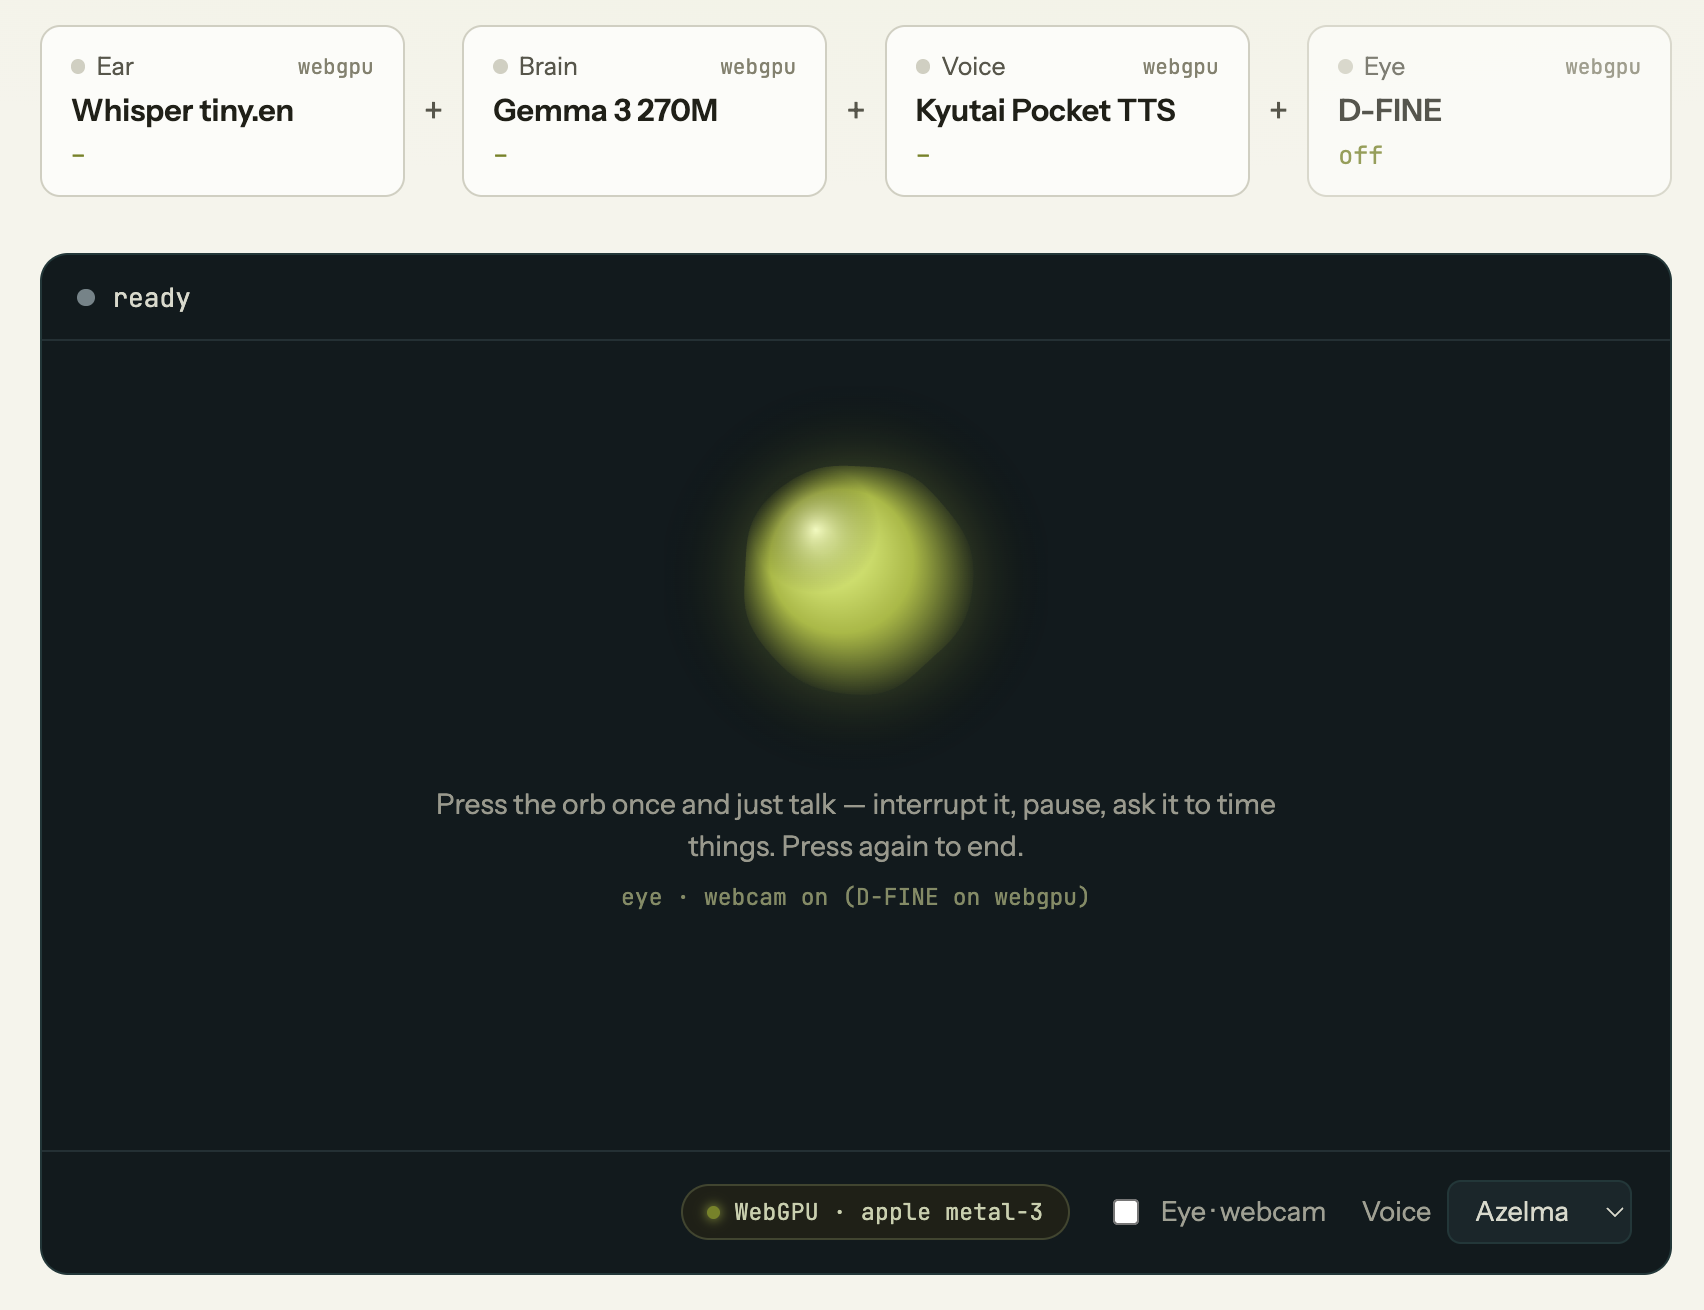
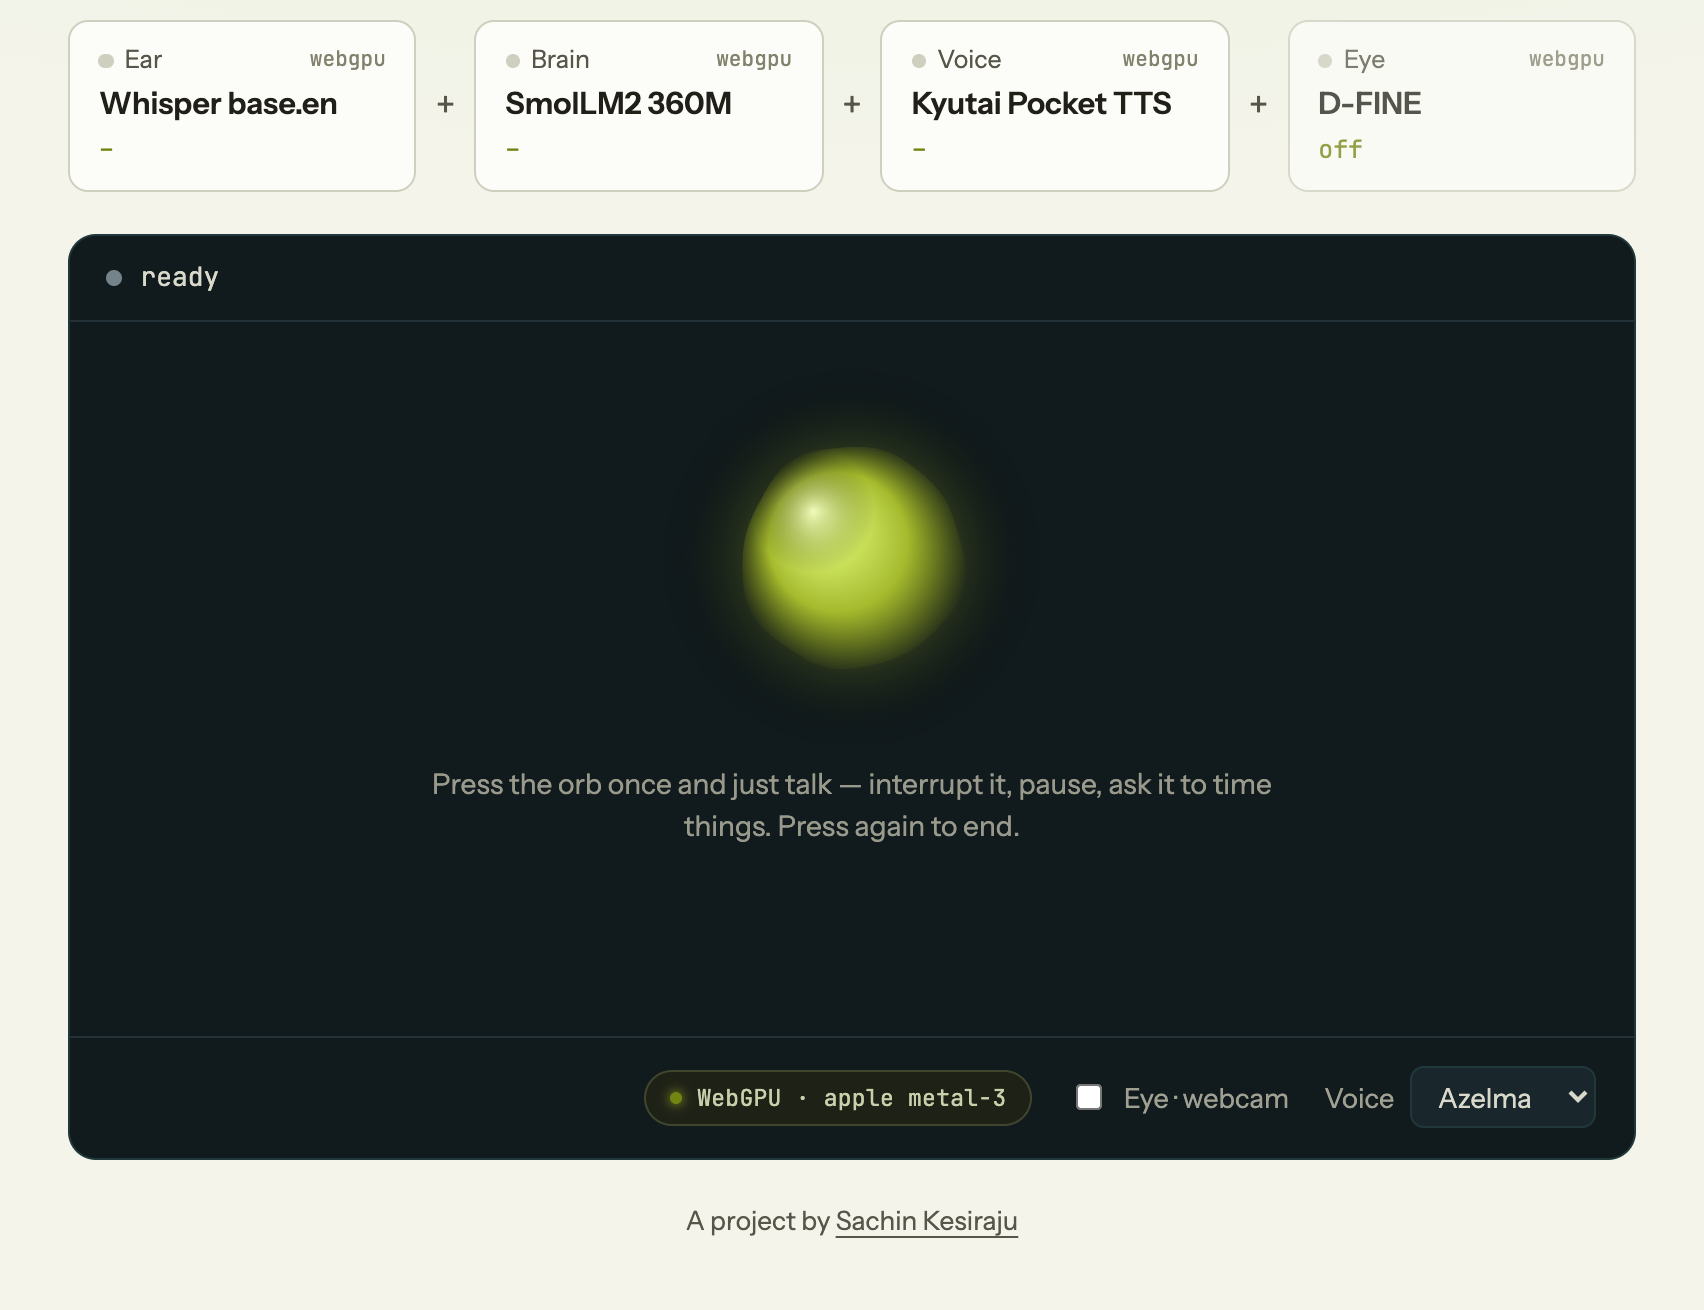
docs: refresh README for the realtime cycles 19-24 ships (#27)
* docs: refresh README for cycles 19-24 (VAD turn signal, continuation-merge, backchannels removed, prosody-safe chunking)

* docs: add 'Hard-won details' — the non-obvious behaviors fixed beyond a default implementation

* docs: refresh README screenshot (base.en + SmolLM2 rail; was tiny.en + Gemma)

* docs: 'ported', not 'hand-ported'

* docs: readability pass on the README (split run-ons, drop stale number, dedupe prosody note, plain-English download note)

* docs: no em dashes in the README

* docs: drop the hard-won details intro line

* docs: keep only the essential hard-won details

* docs: link the models in the pipeline table

* docs: condense the Run it section

* docs: tighten the how-it-works table

diff --git a/src/asr/vad.ts b/src/asr/vad.ts
@@ -1,4 +1,4 @@
-// Silero VAD v5, hand-ported to pure TypeScript. ~200k parameters and ~750k
+// Silero VAD v5, ported to pure TypeScript. ~200k parameters and ~750k
 // MACs per 32 ms frame, so it runs on plain CPU JS — no GPU and no
 // onnxruntime dependency. The LSTM cell (the op @jax-js/onnx lacks) is two
 // matmuls and four gates, written out below.

diff --git a/README.md b/README.md
@@ -3,24 +3,26 @@
 A real-time, full-duplex voice assistant that runs **entirely in your browser**
 on WebGPU, built with [jax-js](https://github.com/ekzhang/jax-js).
 
-Every stage — speech → ASR → LLM → TTS → speech, plus optional vision — runs
+Every stage (speech → ASR → LLM → TTS → speech, plus optional vision) runs
 locally in the tab; nothing is sent to a server.
 
-<img src="docs/assets/orb.png" alt="jax-realtime — the idle orb, ready to talk" width="75%" />
+<img src="docs/assets/orb.png" alt="jax-realtime: the idle orb, ready to talk" width="75%" />
 
 It's inspired by the Thinking Machines
 [interaction model](https://thinkingmachines.ai/blog/interaction-models/) and
-[GPT-Live](https://openai.com/index/introducing-gpt-live/): the goal is a
-conversation that *feels* live — you can interrupt it mid-sentence, pause to
-think, and it backchannels while you talk — reproduced as a small-model cascade
-that fits in a browser.
+[GPT-Live](https://openai.com/index/introducing-gpt-live/), rebuilt as a
+small-model cascade that fits in a browser tab. The goal is a conversation
+that *feels* live: you can interrupt it mid-sentence, pause mid-thought
+without losing your turn, and it keeps searching in the background while you
+talk.
 
 | Stage | Model | Runs on |
 | --- | --- | --- |
-| Ear (ASR) | Whisper base.en (int8, dequantized to fp16) | WebGPU via jax-js |
-| Brain (LLM) | SmolLM2-360M-Instruct (fp16) | WebGPU via jax-js |
-| Voice (TTS) | Kyutai Pocket TTS + Mimi codec (fp16) | WebGPU via jax-js |
-| Eye (vision) | D-FINE small (COCO-80) | WebGPU via `@jax-js/onnx` |
+| Ear (ASR) | [Whisper base.en](https://huggingface.co/openai/whisper-base.en) (int8, dequantized to fp16) | WebGPU via jax-js |
+| Turn-taking (VAD) | [Silero VAD v5](https://github.com/snakers4/silero-vad), ported to TypeScript | CPU (~2 ms / 32 ms frame) |
+| Brain (LLM) | [SmolLM2-360M-Instruct](https://huggingface.co/HuggingFaceTB/SmolLM2-360M-Instruct) (fp16) | WebGPU via jax-js |
+| Voice (TTS) | [Kyutai Pocket TTS](https://huggingface.co/kyutai/pocket-tts-without-voice-cloning) + [Mimi](https://github.com/kyutai-labs/moshi) codec (fp16) | WebGPU via jax-js |
+| Eye (vision) | [D-FINE small](https://huggingface.co/bukuroo/D-FINE-ONNX) (COCO-80) | WebGPU via `@jax-js/onnx` |
 
 Everything shares the single WebGPU device. The streaming ASR lane is paused
 while the assistant speaks so it doesn't contend with TTS for the GPU; barge-in
@@ -29,18 +31,22 @@ assistant stops.
 
 ## Interaction
 
-- **Full-duplex micro-turns** — a ~150 ms tick loop drives a deterministic,
-  priority-ordered policy: adaptive **barge-in** (talk over the assistant and
-  its audio cuts in ~300 ms; the threshold auto-calibrates to the echo floor of
-  each reply), mid-utterance **backchannels**, adaptive **endpointing**, and
-  time-awareness timers. A watchdog force-recovers the session if a reply ever
-  stalls, so it can't wedge.
-- **Phantom-turn guard** — near-silence and ambient swells are rejected from the
-  captured PCM (voiced-duration + peak, over an adaptive noise floor) before
-  they reach Whisper, and a repetition-degeneracy gate drops decoder loops — so
-  the assistant doesn't answer "thank you"s you never said. Snappy one-word
-  replies ("what?", "no") still get through.
-- **Eye (vision)** — enabled by default for webcam context, with a pre-load
+- **Full-duplex micro-turns**: a ~150 ms tick loop drives a deterministic,
+  priority-ordered policy: adaptive **barge-in** (talk over the assistant,
+  including its tool narrations, and the audio cuts in ~300 ms; the threshold
+  auto-calibrates to the echo floor of each reply), adaptive **endpointing**,
+  and time-awareness timers. A watchdog force-recovers the session if a reply
+  ever stalls, so it can't wedge.
+- **Continuation-merge**: if the endpoint fires on a mid-thought pause and you
+  resume speaking before the reply's first audio, the unheard reply is aborted
+  and both halves are answered as one turn ("append, don't restart").
+- **Learned turn signal**: a pure-TypeScript port of Silero VAD v5 scores
+  P(speech) every 32 ms on the CPU and drives speech onset, silence tracking,
+  and the phantom-turn guard: keyboard noise and ambient swells never even
+  latch an utterance, near-silence never reaches Whisper (so no hallucinated
+  "thank you"s), and quiet speech still passes. A repetition-degeneracy gate
+  drops decoder loops on top.
+- **Eye (vision)**: enabled by default for webcam context, with a pre-load
   toggle to skip its 42 MB model, camera access, and GPU residency. D-FINE
   runs low-priority object detection (it yields the GPU to audio), smooths the
   person count, and answers
@@ -48,46 +54,73 @@ assistant stops.
   directly from the measurements. Proactive interjections (stepped away,
   phone spotted, slouching) are best-effort rule heuristics. The webcam shows
   as a corner PiP with detection boxes.
-- **Typed conversation memory** — bounded facts the user explicitly states
+- **Typed conversation memory**: bounded facts the user explicitly states
   (name, trip, pet, favorite, plans, relationships) are retained and injected
   only when relevant; exact recall bypasses small-model guessing.
-- **Two-tier tools** — factual asks are delegated so the small on-device model
+- **Two-tier tools**: factual asks are delegated so the small on-device model
   isn't left guessing: weather ("what's the weather in Tokyo" → [open-meteo](https://open-meteo.com/),
   in °F/mph), facts ("who is Ada Lovelace" → Wikipedia), plus instant offline
   **calculator** and **clock/date**. Web lookups speak a holding line and fetch
   in the background, then answer on the next silence and render a card; the
-  card clears when the conversation moves on.
+  card clears when the conversation moves on, and the spoken answer can be
+  interrupted like any reply.
 
 ## Performance (all on jax-js / WebGPU)
 
 The turn-latency floor is set by the single GPU, so the work went into cutting
 GPU cost per token/frame rather than overlapping stages (which a single device
-can't do — see [`docs/BENCHMARKS.md`](docs/BENCHMARKS.md) for the full
+can't do; see [`docs/BENCHMARKS.md`](docs/BENCHMARKS.md) for the full
 map-reduce campaign log, including the negative results):
 
-- **Fused decode** — the LLM decode step is fused from dozens of per-layer jit
+- **Fused decode**: the LLM decode step is fused from dozens of per-layer jit
   dispatches into one, and Pocket TTS from ~11 into two, cutting the
   command-buffer submit overhead that dominated per-step cost (~22% each).
-- **GPU top-k sampling** — the LLM samples from a device-side top-64 (one small
+- **GPU top-k sampling**: the LLM samples from a device-side top-64 (one small
   readback) instead of transferring the full vocab logits every token,
   folded into the fused step's single dispatch.
-- **Stable prefill shapes** — every turn has a different prompt length, which
+- **Stable prefill shapes**: every turn has a different prompt length, which
   otherwise forces jax-js to compile new traces mid-conversation. Prompts use
   256-token buckets, the common buckets are warmed during loading, and the KV
-  cache has one fixed capacity. A 14-turn run kept first-token latency at
-  288–689 ms with no multi-second history-growth spikes.
-- **Faster confidence-aware ASR** — timestamp-gate candidate reductions are
+  cache has one fixed capacity, so long conversations never hit a
+  multi-second recompile stall mid-turn.
+- **Faster confidence-aware ASR**: timestamp-gate candidate reductions are
   reused for confidence scoring instead of scanning the vocabulary again. ASR
   runs 5–7% faster while preserving all 21 paired clean/quiet/distorted
   transcripts; low-confidence failures request a repeat before invoking the LLM.
-- **Deterministic memory fast paths** — exact recall and bounded trip, pet, and
+- **Bounded history window**: the prompt is capped at 8 messages so it never
+  leaves the warm prefill buckets: first-token latency stays flat (~500–610 ms)
+  across long sessions instead of doubling around turn 6, and the worst turn of
+  a 12-turn session sits within ~150 ms of the median.
+- **Deterministic memory fast paths**: exact recall and bounded trip, pet, and
   activity follow-ups can answer in a few milliseconds without model generation.
-- **Smaller download** — Whisper ships a per-row int8 build (73 MB instead of
+- **Smaller download**: Whisper ships a per-row int8 build (73 MB instead of
   144 MB), while the TTS checkpoint omits 35 MB of audio-encoder weights never
   used for synthesis. The SmolLM2 brain stays full fp16 for conversation quality.
 
 Runtime behaviour is tunable at `src/tunables.ts` (read live, so A/B
 experiments don't need a rebuild).
+
+## Hard-won details
+
+- **The assistant used to interrupt itself.** The barge-in threshold
+  calibrated its echo floor during the reply's first ticks, which fall in the
+  silent LLM/TTS latency gap, so the floor was ambient-level and the
+  assistant's own playback echo tripped it. Calibration now only counts ticks
+  where the TTS output analyser confirms audio is actually playing.
+- **Whisper invents "Thank you." from silence.** Every Whisper size does this
+  (silent-outro captions in its training data), and it decodes with *high*
+  confidence, so no model swap or confidence gate catches it. The fix is
+  signal-side: unvoiced audio never reaches the decoder, on every endpoint
+  path, including barge-in continuations, which originally skipped the guard.
+- **A mid-sentence TTS cut sounds like a full stop.** Each chunk is
+  synthesized as a complete utterance, so flushing at a bare word boundary
+  produces sentence-final falling intonation plus a pause in the middle of
+  your sentence. Chunks now only split at real punctuation: a measured
+  latency cost, paid for prosody.
+- **Latency benches can't hear.** Two timing wins (an eager endpoint, an eager
+  first TTS flush) passed every clip gate and failed immediately on a real
+  microphone. Anything that changes turn-taking or audio structure ships only
+  after a live listen; the clip suite guards regressions, not feel.
 
 ## Run it
 
@@ -97,25 +130,15 @@ npm run dev
 ```
 
 Open http://localhost:5173 in a WebGPU-capable browser (Chrome/Edge on desktop,
-Safari 26+). Click **Load models** (~1.0 GB on first run — SmolLM 724 +
-Pocket TTS 201 + Whisper 73 + D-FINE 42, all cached in OPFS afterwards). The
-Eye is enabled by default and requests camera access; uncheck it before loading
-to skip D-FINE. Then press the orb once and just talk — hands-free: turn ends are
-detected by silence, your words stream into the transcript live, the assistant
-answers out loud and resumes listening. Press the orb again to end.
+Safari 26+). Click **Load models**: ~1.0 GB on first run, cached in OPFS
+afterwards. The Eye is on by default and requests camera access; uncheck it
+before loading to skip it. Then press the orb once and just talk, hands-free.
+Press it again to end.
 
-> **Smaller model downloads.** By default the app fetches the full fp16
-> SmolLM2-360M weights from
-> [Hugging Face](https://huggingface.co/sachink98/jax-realtime-weights); the
-> Whisper base.en weights are still fetched as a per-row int8 build and
-> dequantized to fp16 during load. Whisper produced identical paired MAP and
-> holdout transcripts; the SmolLM2 brain is kept at full precision for the best
-> conversation quality.
-
-The orb reacts in real time: it breathes when idle, swells with your voice while
-listening, shimmers while the model thinks, and pulses with the synthesized
-speech while answering. Per-stage latencies and the active GPU are shown in the
-pipeline rail and footer.
+Weights come from
+[Hugging Face](https://huggingface.co/sachink98/jax-realtime-weights): SmolLM2
+at full fp16 for conversation quality, Whisper as a per-row int8 build
+dequantized at load (it transcribes the bench suite identically to fp16).
 
 ## How it works
 
@@ -124,10 +147,10 @@ The pipeline stages, from microphone to speaker:
 | Path | What's there |
 | --- | --- |
 | `src/mic.ts` | 16 kHz PCM capture via an AudioWorklet. |
-| `src/asr/` | Whisper encoder/decoder, log-mel features, greedy timestamp decoding. `streaming.ts` transcribes live using LocalAgreement-2: it locks in words once two passes agree, filters out the assistant's own voice, and exposes a best-guess transcript the moment your turn ends. |
-| `src/llm/smollm.ts` | SmolLM2-360M (Llama architecture) forward pass with a KV cache — the brain. Each token is generated in a single fused GPU dispatch, and the prompt prefill is bucket-padded so jit traces are reused across turns. Chosen via a blind-judged model shootout against same-size and larger alternatives. |
-| `src/memory.ts` | Bounded extraction, relevance filtering, and deterministic recall for facts the user explicitly shared. |
-| `src/tts/` | Pocket TTS flow-matching LM + Kyutai's [Mimi](https://github.com/kyutai-labs/moshi) streaming neural codec (reimplemented on jax-js, with the fused per-frame decode) and a streaming `AudioContext` player. |
+| `src/asr/` | Whisper encoder/decoder and features. `streaming.ts` transcribes live (LocalAgreement-2: words lock in once two passes agree) and filters out the assistant's own voice. `vad.ts` is the Silero VAD v5 port. |
+| `src/llm/smollm.ts` | SmolLM2-360M forward pass with a KV cache: one fused GPU dispatch per token, bucket-padded prefill so jit traces are reused across turns. |
+| `src/memory.ts` | Extraction and deterministic recall of facts the user shared. |
+| `src/tts/` | Pocket TTS flow-matching LM + the [Mimi](https://github.com/kyutai-labs/moshi) codec on jax-js, streamed to an `AudioContext` player. `src/sentence-split.ts` chunks reply text at clause boundaries for synthesis. |
 | `src/vision/` | D-FINE detector on `@jax-js/onnx`, webcam `VisionSession`, COCO labels, box-dedupe and person-count smoothing. |
 | `src/tools/tools.ts` | Keyless intent detection → weather / Wikipedia / calc / clock. |
 

diff --git a/docs/BENCHMARKS.md b/docs/BENCHMARKS.md
@@ -1104,7 +1104,7 @@ barge path. Gates: midpause still merges 3/3 loops whole; map_a 12-turn clean
 
 ## Cycle 22 — learned turn signal (SHIPPED)
 
-Silero VAD v5's 16 kHz branch, hand-ported to ~200 lines of pure TypeScript
+Silero VAD v5's 16 kHz branch, ported to ~200 lines of pure TypeScript
 (`src/asr/vad.ts`): STFT-as-conv, 4 conv layers, one LSTM cell, sigmoid head.
 ~200k params, 1.2 MB weights (`public/vad/silero-vad-v5.bin`), ~2.3 ms per
 32 ms frame of plain CPU JS — no GPU (the GPU law holds), no onnxruntime (the
